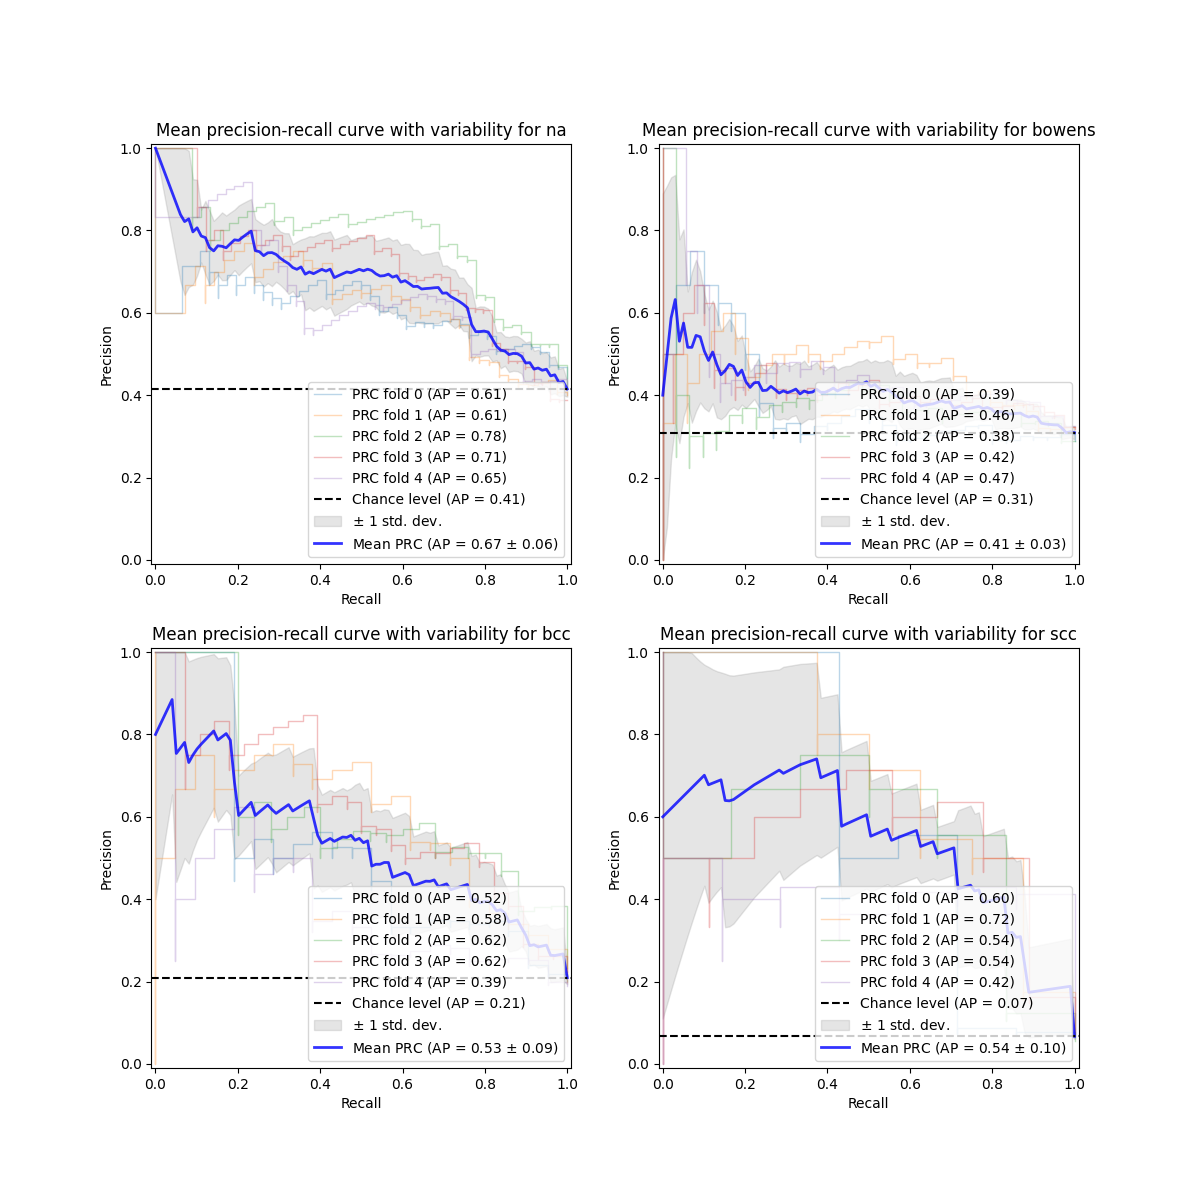
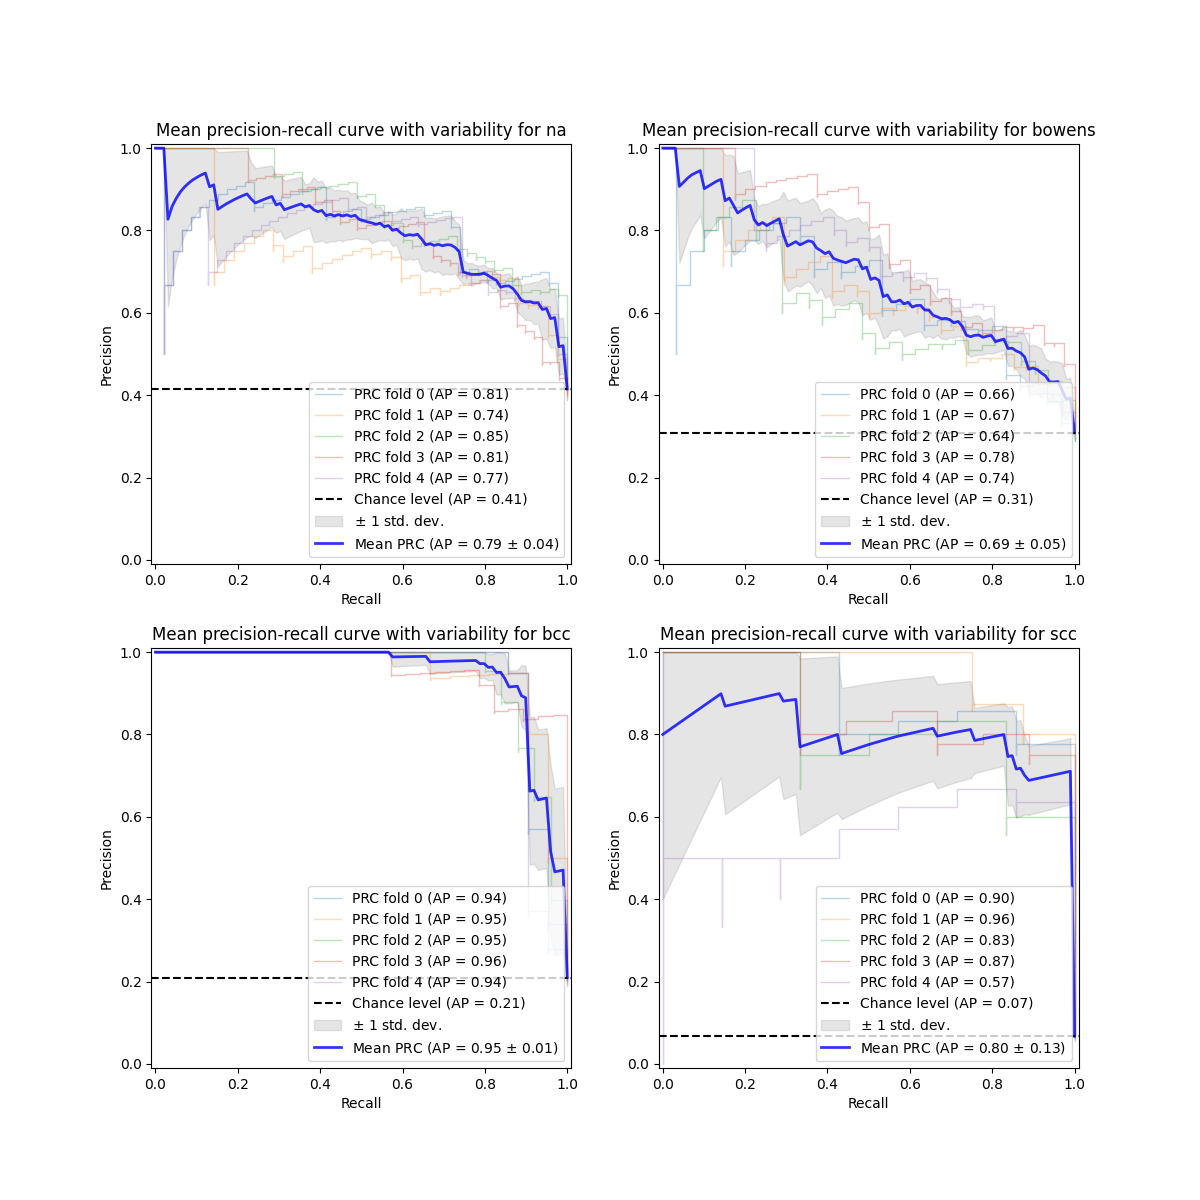
Add various outputs and experiment summary

diff --git a/outputs/experiments.md b/outputs/experiments.md
@@ -1,0 +1,32 @@
+| Foundation Model | Aggregator             | Classifier                            | Batch Size | LR    | Epochs | OvR AUROC (benign, bowens, bcc, scc) | OvR AUPRC (benign, bowens, bcc, scc) | Notes                                        |
+| :--------------- | :--------------------- | :------------------------------------ | :--------- |:----- | :----- | :----------------------------------- | :----------------------------------- | :------------------------------------------- |
+| UNI              | GAP                    | Logistic regression w/ default params | n/a        | n/a   | 1000   | (0.82, 0.76, 0.90, 0.98)             | (0.78, 0.60, 0.74, 0.84)             | Did not converge                             |
+| UNI              | GAP                    | XGBoost w/ default params             | n/a        | n/a   | n/a    | (0.79, 0.69, 0.84, 0.98)             | (0.73, 0.46, 0.62, 0.79)             |                                              |
+| UNI              | GAP                    | MLP, (1024, 512, 256)                 | 16         | 1e-5  | 30     | ()                                   | ()                                   |                                              |
+| UNI              | Ungated ABMIL, 1 Head  | MLP, (1024, 512, 256)                 | 16         | 1e-5  | 30     | (0.86, 0.83, 0.97, 0.99)             | (0.79, 0.69, 0.95, 0.80)             |                                              |
+| UNI              | Ungated ABMIL, 8 Heads | MLP, (1024, 512, 256)                 | 16         | 1e-5  | 30     | (0.85, 0.81, 0.97, 0.98)             | (0.78, 0.69, 0.94, 0.79)             |                                              |
+| UNI              | Gated ABMIL, 1 Head    | MLP, (1024, 512, 256)                 | 16         | 1e-5  | 30     | (0.86, 0.82, 0.97, 0.99)             | (0.79, 0.68, 0.94, 0.80)             |                                              |
+| UNI              | Gated ABMIL, 8 Heads   | MLP, (1024, 512, 256)                 | 16         | 1e-5  | 30     | (0.86, 0.82, 0.96, 0.99)             | (0.80, 0.70, 0.93, 0.82)             |                                              |
+| Prov-GigaPath    | GAP                    | Logistic regression w /default params | n/a        | n/a   | 1000   | ()                                   | ()                                   |                                              |
+| Prov-GigaPath    | GAP                    | XGBoost w/ default params             | n/a        | n/a   | n/a    | ()                                   | ()                                   |                                              |
+| Prov-GigaPath    | GAP                    | MLP, (1024, 512, 256)                 | 16         | 1e-5  | 30     | ()                                   | ()                                   |                                              |
+| Prov-GigaPath    | Ungated ABMIL, 1 Head  | MLP, (1024, 512, 256)                 | 16         | 1e-5  | 30     | (0.86, 0.82, 0.97, 0.98)             | (0.80, 0.68, 0.94, 0.75)             |                                              |
+| Prov-GigaPath    | Ungated ABMIL, 8 Heads | MLP, (1024, 512, 256)                 | 16         | 1e-5  | 30     | (0.86, 0.80, 0.96, 0.98)             | (0.80, 0.69, 0.92, 0.75)             |                                              |
+| Prov-GigaPath    | Gated ABMIL, 1 Head    | MLP, (1024, 512, 256)                 | 16         | 1e-5  | 30     | (0.85, 0.81, 0.97, 0.98)             | (0.79, 0.66, 0.93, 0.75)             |                                              |
+| Prov-GigaPath    | Gated ABMIL, 8 Heads   | MLP, (1024, 512, 256)                 | 16         | 1e-5  | 30     | (0.86, 0.80, 0.96, 0.98)             | (0.80, 0.69, 0.92, 0.71)             |                                              |
+| Prov-GigaPath    | GigaPath, CLS token    | Logistic regression w /default params | n/a        | n/a   | 1000   | (0.80, 0.70, 0.86, 0.95)             | (0.73, 0.50, 0.69, 0.67)             | Pre-trained aggregator <br> Did not converge |
+| Prov-GigaPath    | GigaPath, CLS token    | XGBoost w/ default params             | n/a        | n/a   | n/a    | (0.73, 0.59, 0.78, 0.96)             | (0.65, 0.39, 0.48, 0.62)             | Pre-trained aggregator                       |
+| Prov-GigaPath    | GigaPath, CLS token    | MLP, (1024, 512, 256)                 | 16         | 1e-5  | 30     | ()                                   | ()                                   | Pre-trained aggregator                       |
+| Prov-GigaPath    | GigaPath, GAP          | Logistic regression w /default params | n/a        | n/a   | 1000   | (0.82, 0.74, 0.89, 0.97)             | (0.76, 0.56, 0.72, 0.71)             | Pre-trained aggregator <br> Did not converge |
+| Prov-GigaPath    | GigaPath, GAP          | XGBoost w/ default params             | n/a        | n/a   | n/a    | (0.78, 0.61, 0.80, 0.97)             | (0.69, 0.42, 0.57, 0.66)             | Pre-trained aggregator                       |
+| Prov-GigaPath    | GigaPath, GAP          | MLP, (1024, 512, 256)                 | 16         | 1e-5  | 30     | ()                                   | ()                                   | Pre-trained aggregator                       |
+| Virchow / PRISM  | GAP                    | Logistic regression w /default params | n/a        | n/a   | 1000   | ()                                   | ()                                   | Did not converge                             |
+| Virchow / PRISM  | GAP                    | XGBoost w/ default params             | n/a        | n/a   | n/a    | ()                                   | ()                                   |                                              |
+| Virchow / PRISM  | GAP                    | MLP, (1024, 512, 256)                 | 16         | 1e-5  | 30     | ()                                   | ()                                   |                                              |
+| Virchow / PRISM  | Ungated ABMIL, 1 Head  | MLP, (1024, 512, 256)                 | 16         | 1e-5  | 30     | (0.84, 0.84, 0.97, 0.98)             | (0.78, 0.71, 0.95, 0.73)             |                                              |
+| Virchow / PRISM  | Ungated ABMIL, 8 Heads | MLP, (1024, 512, 256)                 | 16         | 1e-5  | 30     | ()                                   | ()                                   |                                              |
+| Virchow / PRISM  | Gated ABMIL, 1 Head    | MLP, (1024, 512, 256)                 | 16         | 1e-5  | 30     | ()                                   | ()                                   |                                              |
+| Virchow / PRISM  | Gated ABMIL, 8 Heads   | MLP, (1024, 512, 256)                 | 16         | 1e-5  | 30     | (0.85, 0.83, 0.96, 0.98)             | (0.79, 0.70, 0.94, 0.79)             |                                              |
+| Virchow / PRISM  | PRISM                  | Logistic regression w /default params | n/a        | n/a   | 1000   | (0.88, 0.86, 0.95, 0.97)             | (0.80, 0.76, 0.92, 0.79)             | Pre-trained aggregator <br> Did not converge |
+| Virchow / PRISM  | PRISM                  | XGBoost w/ default params             | n/a        | n/a   | n/a    | (0.86, 0.84, 0.96, 0.99)             | (0.79, 0.73, 0.94, 0.87)             | Pre-trained aggregator                       |
+| Virchow / PRISM  | PRISM                  | MLP, (1024, 512, 256)                 | 16         | 1e-5  | 30     | ()                                   | ()                                   | Pre-trained aggregator                       |
